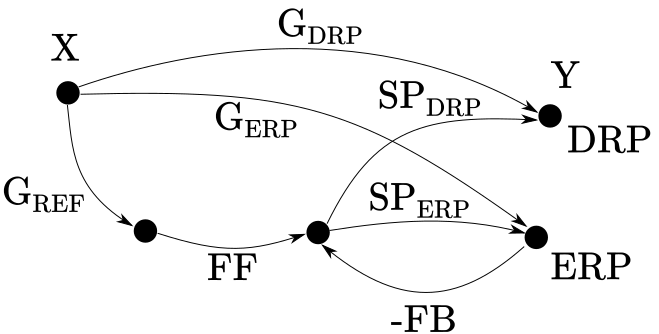
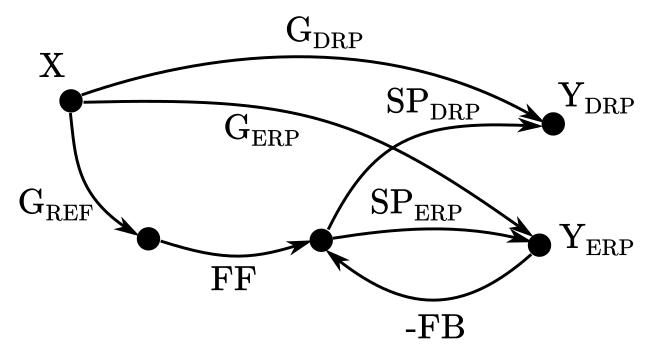
upd description

Changed region(s): [[0.0, 0.0, 1.0, 1.0], [0.8295, 0.1796, 0.9831, 0.3293], [0.8295, 0.7485, 0.9524, 0.8383]]

diff --git a/ANC_contoller_design.md b/ANC_contoller_design.md
@@ -1,4 +1,3 @@
-
 ### Active noise control
 **Active noise control** ([ANC](https://en.wikipedia.org/wiki/Active_noise_control)) - is a method for reducing unwanted sound by the addition of a second sound generated by an ANC controller to cancel the first. The two sounds cancel each other out by an effect which is called *destructive interference*.
 
@@ -10,7 +9,7 @@ According to the control structure, controllers can be categorized into the [*fe
 
 <center><img src="images/hybrid_anc.png" width="300"></center>
 
-The controller synthesis problem can be formulated as a constrained optimization problem. 
+The controller synthesis problem can be formulated as a non-linear constrained optimization problem. 
 The controller is synthesized from a dataset of measured impulse responses of a headphone system.
 
 #### Controller representation
@@ -29,7 +28,7 @@ Based on this reduced computational complexity, the sampling frequency could be 
 
 #### ANC system structure
 
-...<u>work in progress</u>!
+To derive the transfer function of a hybrid ANC system, let's represent it as a signal flow graph:
 
 <center><img src="images/anc_drp.png" width="400"></center>
 
@@ -37,20 +36,23 @@ List of abbreviations:
 
 |Abbreviation|Definition|
 |-|:-|
-|ERP|error reference point|
-|DRP|drum reference point|
-|PP|primary path|
-|SP|secondary path|
-|FF|feedforward controller|
-|FB|feedback controller|
+|ERP|Error reference point (error microphone location)|
+|DRP|Drum reference point|
+|REF|Reference microphone location|
+|PP|Primary path|
+|SP|Secondary path|
+|FF|Feedforward controller|
+|FB|Feedback controller|
 
 
 
 Traditionally, an ANC system is tuned to produce optimum noise cancellation at the location of the error microphone, also called as the *error reference point* (ERP). This is because most of the ANC systems rely upon monitoring the cancelled signal to work. To maximize noise cancellation, an ideal placement of an error microphone would be at the eardrum. This point is often referred to as the *drum reference point* (DRP) . But that location is not practical or possible for many consumer devices. Thus, the ERP is used to provide a practical signal that is roughly indicative of the cancellation performance at the DRP, especially for lower frequencies (< 1 kHz). Also, sometimes it is considered acceptable to ignore any differences in noise cancellation between the ERP and the DRP.
 
 Using [Mason's gain formula](https://en.wikipedia.org/wiki/Mason%27s_gain_formula), one can derive the transfer function:
-$$ H = \frac{\sum_k P_k \Delta_k}{\Delta} $$
- that models the system's output $Y$ given the input $X$.
+
+$ H = \frac{\sum_k P_k \Delta_k}{\Delta} $
+
+that models the system's output $Y$ given the input $X$.
 
 
 Graph determinant: $\Delta = 1 + \mathrm{FB} \cdot \mathrm{SP}_\text{ERP}$
@@ -62,30 +64,30 @@ Paths and co-factors:
 
 
 Transfer function: 
-$$
+$
 \begin{aligned}
-H = \frac{Y}{X} = G_\text{DRP} + \frac{G_\text{REF} \cdot \mathrm{FF} \cdot \mathrm{SP}_\text{DRP} - G_\text{ERP} \cdot \mathrm{FB} \cdot \mathrm{SP}_\text{DRP}}{1 + \mathrm{FB} \cdot \mathrm{SP}_\text{ERP}} \\ 
+H = \frac{Y_\text{DRP}}{X} = G_\text{DRP} + \frac{G_\text{REF} \cdot \mathrm{FF} \cdot \mathrm{SP}_\text{DRP} - G_\text{ERP} \cdot \mathrm{FB} \cdot \mathrm{SP}_\text{DRP}}{1 + \mathrm{FB} \cdot \mathrm{SP}_\text{ERP}} \\ 
 = \frac{G_\text{DRP} + G_\text{REF} \cdot \mathrm{FF} \cdot \mathrm{SP}_\text{DRP} + G_\text{DRP} \cdot \mathrm{FB} \cdot \mathrm{SP}_\text{ERP} - G_\text{ERP} \cdot \mathrm{FB} \cdot \mathrm{SP}_\text{DRP}} {1 + \mathrm{FB} \cdot \mathrm{SP}_\text{ERP}} \\
 = \frac{G_\text{DRP} + G_\text{REF} \cdot \mathrm{FF} \cdot \mathrm{SP}_\text{DRP} + \mathrm{FB} \cdot (G_\text{DRP} \cdot \mathrm{SP}_\text{ERP} - G_\text{ERP} \cdot \mathrm{SP}_\text{DRP})} {1 + \mathrm{FB} \cdot \mathrm{SP}_\text{ERP}} \\
 = \frac{G_\text{DRP} + G_\text{REF} \cdot \mathrm{FF} \cdot \mathrm{SP}_\text{DRP} + \mathrm{FB} \cdot G_\text{DRP} \cdot \mathrm{SP}_\text{ERP} \cdot (1 - \frac{G_\text{ERP} \cdot \mathrm{SP}_\text{DRP}}{G_\text{DRP} \cdot \mathrm{SP}_\text{ERP}})} {1 + \mathrm{FB} \cdot \mathrm{SP}_\text{ERP}} \\
 \end{aligned}
-$$
+$
 
 
-Introducing $\mathrm{PP}_\text{ERP} = \frac{G_\text{ERP}}{G_\text{REF}}$, $\mathrm{PP}_\text{DRP} = \frac{G_\text{DRP}}{G_\text{REF}}$ and $\Delta = \frac{G_\text{ERP} \cdot \mathrm{SP}_\text{DRP}}{G_\text{DRP} \cdot \mathrm{SP}_\text{ERP}} = \frac{\mathrm{PP}_\text{ERP} \cdot \mathrm{SP}_\text{DRP}}{\mathrm{PP}_\text{DRP} \cdot \mathrm{SP}_\text{ERP}}$, the transfer function can be rewritten as:
-$$
-\frac{Y}{G_\text{REF} \cdot X} = \frac{\mathrm{PP}_\text{DRP} + \mathrm{FF} \cdot \mathrm{SP}_\text{DRP} + \mathrm{FB} \cdot \mathrm{PP}_\text{DRP} \cdot \mathrm{SP}_\text{ERP} \cdot (1 - \Delta)} {1 + \mathrm{FB} \cdot \mathrm{SP}_\text{ERP}}
-$$
+Introducing the *primary path* (PP) responses as $\mathrm{PP}_\text{ERP} = \frac{G_\text{ERP}}{G_\text{REF}}$, $\mathrm{PP}_\text{DRP} = \frac{G_\text{DRP}}{G_\text{REF}}$ and $\Delta = \frac{G_\text{ERP} \cdot \mathrm{SP}_\text{DRP}}{G_\text{DRP} \cdot \mathrm{SP}_\text{ERP}} = \frac{\mathrm{PP}_\text{ERP} \cdot \mathrm{SP}_\text{DRP}}{\mathrm{PP}_\text{DRP} \cdot \mathrm{SP}_\text{ERP}}$, the transfer function can be rewritten as:
+$
+\frac{Y_\text{DRP}}{G_\text{REF} \cdot X} = \frac{\mathrm{PP}_\text{DRP} + \mathrm{FF} \cdot \mathrm{SP}_\text{DRP} + \mathrm{FB} \cdot \mathrm{PP}_\text{DRP} \cdot \mathrm{SP}_\text{ERP} \cdot (1 - \Delta)} {1 + \mathrm{FB} \cdot \mathrm{SP}_\text{ERP}}
+$
 
 Given this transfer function, one can can define the [*sensitivity function*](https://en.wikipedia.org/wiki/Sensitivity_(control_systems)) for a whole system - ratio of noise with ANC ON and ANC OFF:
-$$
+$
 S = \frac{H}{G_\text{DRP}} = \frac{1 + \frac{\mathrm{SP}_\text{DRP}}{\mathrm{PP}_\text{DRP}} \cdot \mathrm{FF} + \mathrm{FB} \cdot \mathrm{SP}_\text{ERP} \cdot (1 - \Delta)} {1 + \mathrm{FB} \cdot \mathrm{SP}_\text{ERP}}
-$$
+$
 
 Let us assume that $\mathrm{ERP} \equiv \mathrm{DRP}$ for now. This simplifies the sensitivity function by eliminating $\mathrm{FB}$ from the numerator:
-$$
+$
 S = \frac{1 + \frac{\mathrm{SP}_\text{ERP}}{\mathrm{PP}_\text{ERP}} \cdot \mathrm{FF}} {1 + \mathrm{FB} \cdot \mathrm{SP}_\text{ERP}}
-$$
+$
 Under this assumption, design of a hybrid ANC controller, - minimization of the sensitivity function $S$ wrt to $\mathrm{FF}$ and $\mathrm{FB}$, - decouples into two independent optimization problems. Next sections present detailed discussion about the controller design.
 
 
@@ -95,8 +97,9 @@ Let consider a feedback control system with linear time-invariant stable plant $
 
 The objective is to synthesize a linear time-invariant controller $K$ that achieves good noise attenuation within the control bandwidth.
 This can be achieved by minimizing the *sensitivity function*, *i.e.*, the [*closed-loop*](https://en.wikipedia.org/wiki/Closed-loop_transfer_function) transfer function:
-%% S = \frac{E}{D} = %%
-$$ S = \frac{1}{1 + K \cdot P} = \frac{1}{1 + L} $$ 
+$ 
+S = \frac{1}{1 + K \cdot P} = \frac{1}{1 + L} 
+$ 
 In the case of feedback ANC, the plant is $P$ is given by the measured secondary path response(s). Here, $L$ denotes the *open-loop* transfer function. 
 
 The design goal of minimizing the sensitivity function translates to making its magnitude, $∣S∣$, as small as possible over the target frequency range where noise attenuation is desired.
@@ -144,31 +147,31 @@ The gain margin and phase margins on the [Nyquist plot](https://en.wikipedia.org
 In a practical situation a phase margin of 45° and a gain margin of 6 dB are often used.
 
 One of the ways to define a constraint is the following:
-$$ |1 - L(\omega)| - |1+L(\omega)| \leq 2a, \forall \omega \in [0, \infty) $$
+$ |1 - L(\omega)| - |1+L(\omega)| \leq 2a, \forall \omega \in [0, \infty) $
 This inequality defines a hyperbolic bound in the complex plane. This bound not only prevents $L$ from encirclement of the point $(-1, 0)$, but also provides the following stability margins:
 
-$$
+$
 \begin{equation}
 \begin{cases} 
 \mathrm{GM} \geq a^{-1}\\
 \mathrm{PM} \geq \cos^{-1}(a\sqrt{2-a^2})
 \end{cases}
 \end{equation}
-$$
+$
 
 Forbidden area (black) in the complex plane:
 
 <center><img src="images/constraint_hyperbola.png" width="500"></center>
 
 Another similar constraint can be defined based on a parabola in the complex plane:
-$$ \mathfrak{R}\{L(\omega)\} \geq -d_1 \mathfrak{I}\{L(\omega)\}^2 - d_2 $$
+$ \mathfrak{R}\{L(\omega)\} \geq -d_1 \mathfrak{I}\{L(\omega)\}^2 - d_2 $
 
 Forbidden area (black) in the complex plane:
 
 <center><img src="images/constraint_parabola.png" width="500"></center>
 
 Finally, physical systems generally have some high frequency plant uncertainty. For instance, a slight change in the system delay could cause a large phase variation in the high-frequency band. Thus, the open-loop gain should be small enough above $\omega_{h}$:
-$$ |L(\omega)| \leq c, \forall \omega \in [\omega_{h}, \infty) $$
+$ |L(\omega)| \leq c, \forall \omega \in [\omega_{h}, \infty) $
 
 
 #### Performance constraints
@@ -178,17 +181,17 @@ According to [Bode's sensitivity integral theorem](https://en.wikipedia.org/wiki
 <center><img src="images/digger.png" width="400"></center>
 
 Therefore, to avoid excessive noise amplification ($|S|>1$), some constraint must be included to prevent the magnitude of the sensitivity function of growing too large.
-$$ |1 + L(\omega)| \geq b, \forall \omega \in [0, \infty) $$
+$ |1 + L(\omega)| \geq b, \forall \omega \in [0, \infty) $
 This constraint defines a circular region with a radius $b$ centered at $(-1, 0)$. This bound ensures that the magnitude of the sensitivity function is below $b^{-1}$ and provides the following stability margins:
 
-$$
+$
 \begin{equation}
 \begin{cases} 
 \mathrm{GM} \geq (1 - b)^{-1}\\
 \mathrm{PM} \geq \cos^{-1}(1 - b^2/2)
 \end{cases}
 \end{equation}
-$$
+$
 
 #### Problem formulation
 
@@ -208,11 +211,19 @@ To use off-the-shelf metaheuristics available in open-source Python packages, th
 
 ### Feedforward controller design
 
-Designing a feedforward ANC controller is technically similar to designing a feedback controller. In both cases one needs to minimize the following function (of its weighed version) wrt to either $FF$ or $FB$ parameters:
-$$
-S = \frac{1 + \frac{\mathrm{SP}_\text{ERP}}{\mathrm{PP}_\text{ERP}} \cdot FF} {1 + \mathrm{FB} \cdot \mathrm{SP}_\text{ERP}}
-$$
-However, in the case of FF ANC, the problem is unconstrained because feedforward controllers are always stable.
+The key concept of the FF ANC system is that an upstream reference microphone is used to capture the noise (disturbance) *before* it reaches the control source (loudspeaker) and the desired cancellation point (error microphone). Based on the *time-advanced information* about the noise from the reference microphone, the FF ANC controller generates an antinoise signal that is equal in amplitude but opposite in phase to the disturbance signal, which is then emitted by the loudspeaker.
+In the ideal case, *i.e.*, perfect cancellation, the ANC controller should correspond to the optimal transfer function of the FF ANC filter 
+$
+\mathrm{FF} = -\frac{\mathrm{PP}}{\mathrm{SP}} 
+$
+where the primary path $\mathrm{PP}$ represents the acoustic response from the reference microphone to the cancellation point (ERP or DRP), the secondary path $\mathrm{SP}$ is the transfer function between the ANC controller output and the cancellation point.
+So, the FF ANC filter has to model $\mathrm{PP}$ and the inverse of $\mathrm{SP}$, thus $\mathrm{FF}$ can only be realized if $\mathrm{SP}$ is a minimum phase and whereby a **stable and causal inverse exists**, which is usually not the case.
+
+In practice, designing a feedforward ANC controller is technically similar to designing a feedback controller. In both cases one needs to minimize the magnitude of the sensitivity function $S$ wrt to either $\mathrm{FF}$ or $\mathrm{FB}$ parameters:
+$
+S = \frac{1 + \frac{\mathrm{SP}_\text{ERP}}{\mathrm{PP}_\text{ERP}} \cdot \mathrm{FF}} {1 + \mathrm{FB} \cdot \mathrm{SP}_\text{ERP}}
+$
+However, in the case of FF ANC, the problem is usually unconstrained because the stability constraints are not required.
 
 ### Dataset
 
@@ -240,7 +251,7 @@ The *relative attenuation* (RA) is a widely used metric to quantify the performa
 
 Assuming that the system behaves linearly, the ratio of these PSDs is approximately equal to the squared magnitude of the sensitivity function$S$ at the corresponding frequency. 
 
-$$ \mathrm{RA}(\mathrm{dB}) = 10 \log_{10} \frac{\mathrm{PSD}_\text{on}}{\mathrm{PSD}_\text{off}} \approx 10 \log_{10} |S|^2$$
+$ \mathrm{RA}(\mathrm{dB}) = 10 \log_{10} \frac{\mathrm{PSD}_\text{on}}{\mathrm{PSD}_\text{off}} \approx 10 \log_{10} |S|^2$
 
 Any significant discrepancies between the $∣S∣$ predicted by the optimization process and the experimentally measured RA can point to inaccuracies in the SP model used for design, unmodeled non-linearities, or limitations imposed by the controller's implementation (*e.g.*, quantization effects, processing delay).
 
